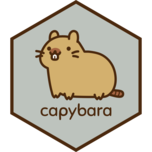
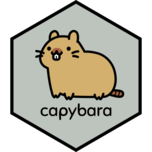
using black lines to print stickers

Changed region(s): [[0.0526, 0.0, 0.9474, 1.0], [0.2105, 0.1842, 0.8158, 0.6579], [0.2632, 0.6842, 0.7368, 0.7895]]

diff --git a/docs/reference/feglm.html b/docs/reference/feglm.html
@@ -162,7 +162,7 @@ Linear Models with High-Dimensional k-Way Fixed Effects". ArXiv e-prints.</p>
 <span class="r-in"><span></span></span>
 <span class="r-in"><span><span class="fu"><a href="https://rdrr.io/r/base/summary.html" class="external-link">summary</a></span><span class="op">(</span><span class="va">mod</span><span class="op">)</span></span></span>
 <span class="r-out co"><span class="r-pr">#&gt;</span> Formula: trade ~ log_dist + lang + cntg + clny | exp_year + imp_year</span>
-<span class="r-out co"><span class="r-pr">#&gt;</span> &lt;environment: 0x590027da7090&gt;</span>
+<span class="r-out co"><span class="r-pr">#&gt;</span> &lt;environment: 0x5880ce790bb8&gt;</span>
 <span class="r-out co"><span class="r-pr">#&gt;</span> </span>
 <span class="r-out co"><span class="r-pr">#&gt;</span> Family: Poisson</span>
 <span class="r-out co"><span class="r-pr">#&gt;</span> </span>
@@ -192,7 +192,7 @@ Linear Models with High-Dimensional k-Way Fixed Effects". ArXiv e-prints.</p>
 <span class="r-in"><span><span class="fu"><a href="https://rdrr.io/r/base/summary.html" class="external-link">summary</a></span><span class="op">(</span><span class="va">mod</span>, type <span class="op">=</span> <span class="st">"clustered"</span><span class="op">)</span></span></span>
 <span class="r-out co"><span class="r-pr">#&gt;</span> Formula: trade ~ log_dist + lang + cntg + clny | exp_year + imp_year | </span>
 <span class="r-out co"><span class="r-pr">#&gt;</span>     pair</span>
-<span class="r-out co"><span class="r-pr">#&gt;</span> &lt;environment: 0x590027da7090&gt;</span>
+<span class="r-out co"><span class="r-pr">#&gt;</span> &lt;environment: 0x5880ce790bb8&gt;</span>
 <span class="r-out co"><span class="r-pr">#&gt;</span> </span>
 <span class="r-out co"><span class="r-pr">#&gt;</span> Family: Poisson</span>
 <span class="r-out co"><span class="r-pr">#&gt;</span> </span>

diff --git a/docs/reference/apes.html b/docs/reference/apes.html
@@ -186,7 +186,7 @@ partially consistent observations". Econometrica, 16(1), 1-32.</p>
 <span class="r-in"><span><span class="va">mod_bc</span> <span class="op">&lt;-</span> <span class="fu"><a href="bias_corr.html">bias_corr</a></span><span class="op">(</span><span class="va">mod</span><span class="op">)</span></span></span>
 <span class="r-in"><span><span class="fu"><a href="https://rdrr.io/r/base/summary.html" class="external-link">summary</a></span><span class="op">(</span><span class="va">mod_bc</span><span class="op">)</span></span></span>
 <span class="r-out co"><span class="r-pr">#&gt;</span> Formula: trade ~ lang | year</span>
-<span class="r-out co"><span class="r-pr">#&gt;</span> &lt;environment: 0x59002823af70&gt;</span>
+<span class="r-out co"><span class="r-pr">#&gt;</span> &lt;environment: 0x5880ccbe50f8&gt;</span>
 <span class="r-out co"><span class="r-pr">#&gt;</span> </span>
 <span class="r-out co"><span class="r-pr">#&gt;</span> Family: Binomial</span>
 <span class="r-out co"><span class="r-pr">#&gt;</span> </span>

diff --git a/docs/reference/bias_corr.html b/docs/reference/bias_corr.html
@@ -146,7 +146,7 @@ partially consistent observations". Econometrica, 16(1), 1-32.</p>
 <span class="r-in"><span><span class="va">mod_bc</span> <span class="op">&lt;-</span> <span class="fu">bias_corr</span><span class="op">(</span><span class="va">mod</span><span class="op">)</span></span></span>
 <span class="r-in"><span><span class="fu"><a href="https://rdrr.io/r/base/summary.html" class="external-link">summary</a></span><span class="op">(</span><span class="va">mod_bc</span><span class="op">)</span></span></span>
 <span class="r-out co"><span class="r-pr">#&gt;</span> Formula: trade ~ lang | year</span>
-<span class="r-out co"><span class="r-pr">#&gt;</span> &lt;environment: 0x590027ba5320&gt;</span>
+<span class="r-out co"><span class="r-pr">#&gt;</span> &lt;environment: 0x5880cb027da0&gt;</span>
 <span class="r-out co"><span class="r-pr">#&gt;</span> </span>
 <span class="r-out co"><span class="r-pr">#&gt;</span> Family: Binomial</span>
 <span class="r-out co"><span class="r-pr">#&gt;</span> </span>

diff --git a/docs/reference/fenegbin.html b/docs/reference/fenegbin.html
@@ -141,7 +141,7 @@ process. See <code><a href="feglm_control.html">feglm_control</a></code> for det
 <span class="r-in"><span></span></span>
 <span class="r-in"><span><span class="fu"><a href="https://rdrr.io/r/base/summary.html" class="external-link">summary</a></span><span class="op">(</span><span class="va">mod</span><span class="op">)</span></span></span>
 <span class="r-out co"><span class="r-pr">#&gt;</span> Formula: trade ~ log_dist + lang + cntg + clny | exp_year + imp_year</span>
-<span class="r-out co"><span class="r-pr">#&gt;</span> &lt;environment: 0x5900286d1580&gt;</span>
+<span class="r-out co"><span class="r-pr">#&gt;</span> &lt;environment: 0x5880cd86af50&gt;</span>
 <span class="r-out co"><span class="r-pr">#&gt;</span> </span>
 <span class="r-out co"><span class="r-pr">#&gt;</span> Family: Negative Binomial(1.1839)</span>
 <span class="r-out co"><span class="r-pr">#&gt;</span> </span>

diff --git a/docs/reference/fepoisson.html b/docs/reference/fepoisson.html
@@ -128,7 +128,7 @@ process. See <code><a href="feglm_control.html">feglm_control</a></code> for det
 <span class="r-in"><span></span></span>
 <span class="r-in"><span><span class="fu"><a href="https://rdrr.io/r/base/summary.html" class="external-link">summary</a></span><span class="op">(</span><span class="va">mod</span><span class="op">)</span></span></span>
 <span class="r-out co"><span class="r-pr">#&gt;</span> Formula: trade ~ log_dist + lang + cntg + clny | exp_year + imp_year</span>
-<span class="r-out co"><span class="r-pr">#&gt;</span> &lt;environment: 0x5900260186e8&gt;</span>
+<span class="r-out co"><span class="r-pr">#&gt;</span> &lt;environment: 0x5880ceba0e50&gt;</span>
 <span class="r-out co"><span class="r-pr">#&gt;</span> </span>
 <span class="r-out co"><span class="r-pr">#&gt;</span> Family: Poisson</span>
 <span class="r-out co"><span class="r-pr">#&gt;</span> </span>

diff --git a/docs/reference/felm.html b/docs/reference/felm.html
@@ -116,7 +116,7 @@ Linear Models with High-Dimensional k-Way Fixed Effects". ArXiv e-prints.</p>
 <span class="r-in"><span></span></span>
 <span class="r-in"><span><span class="fu"><a href="https://rdrr.io/r/base/summary.html" class="external-link">summary</a></span><span class="op">(</span><span class="va">mod</span><span class="op">)</span></span></span>
 <span class="r-out co"><span class="r-pr">#&gt;</span> Formula: log(trade) ~ log_dist + lang + cntg + clny | exp_year + imp_year</span>
-<span class="r-out co"><span class="r-pr">#&gt;</span> &lt;environment: 0x5900284e25b0&gt;</span>
+<span class="r-out co"><span class="r-pr">#&gt;</span> &lt;environment: 0x5880cdb41318&gt;</span>
 <span class="r-out co"><span class="r-pr">#&gt;</span> </span>
 <span class="r-out co"><span class="r-pr">#&gt;</span> Estimates:</span>
 <span class="r-out co"><span class="r-pr">#&gt;</span> </span>
